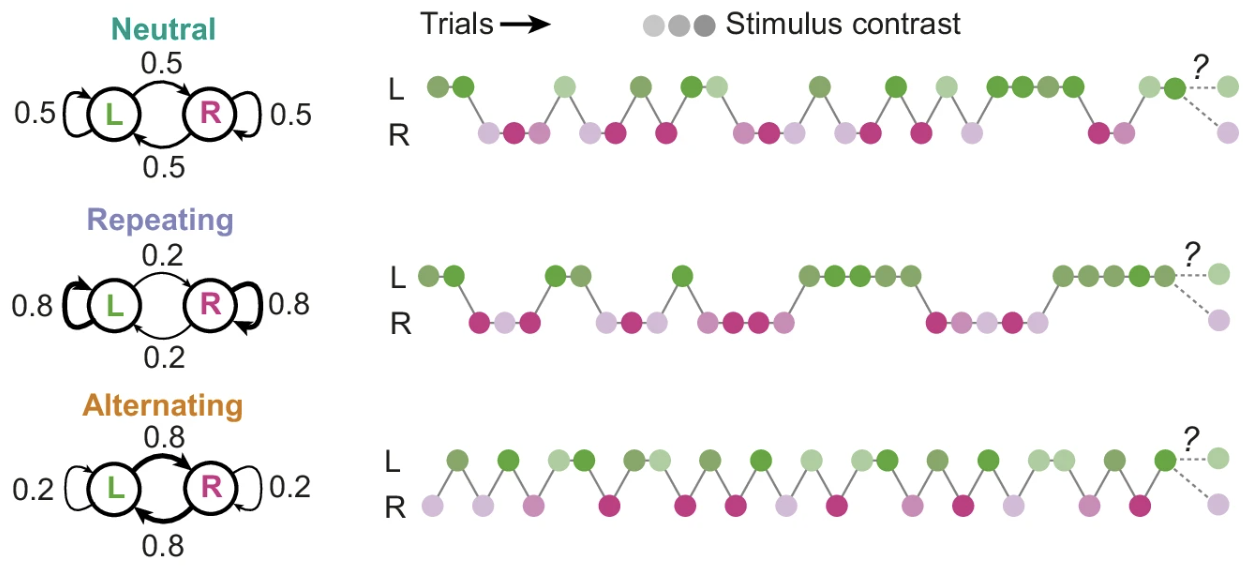
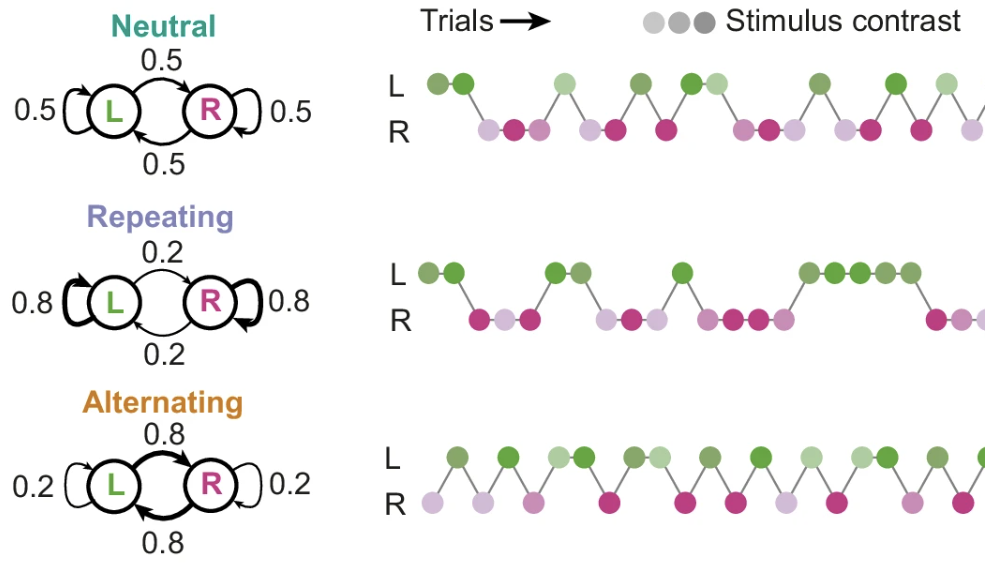
crop images and add line break

diff --git a/_pages/about.md b/_pages/about.md
@@ -27,5 +27,5 @@ I am funded by the [Human Frontier Science Program (HFSP)](https://www.hfsp.org/
 
 Education:
 
-MSc + PhD in Neuroscience, [University of Oxford](https://www.ox.ac.uk/)
+MSc + PhD in Neuroscience, [University of Oxford](https://www.ox.ac.uk/)<br>
 BA + MEng in Electrical Engineering (First Class), [University of Cambridge](https://www.cam.ac.uk/)
